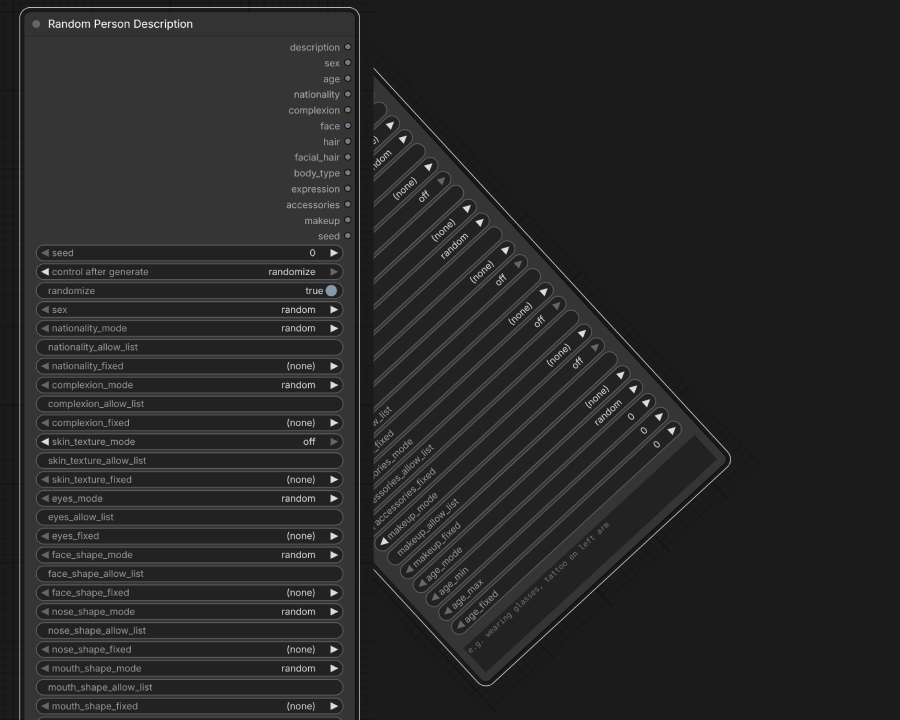
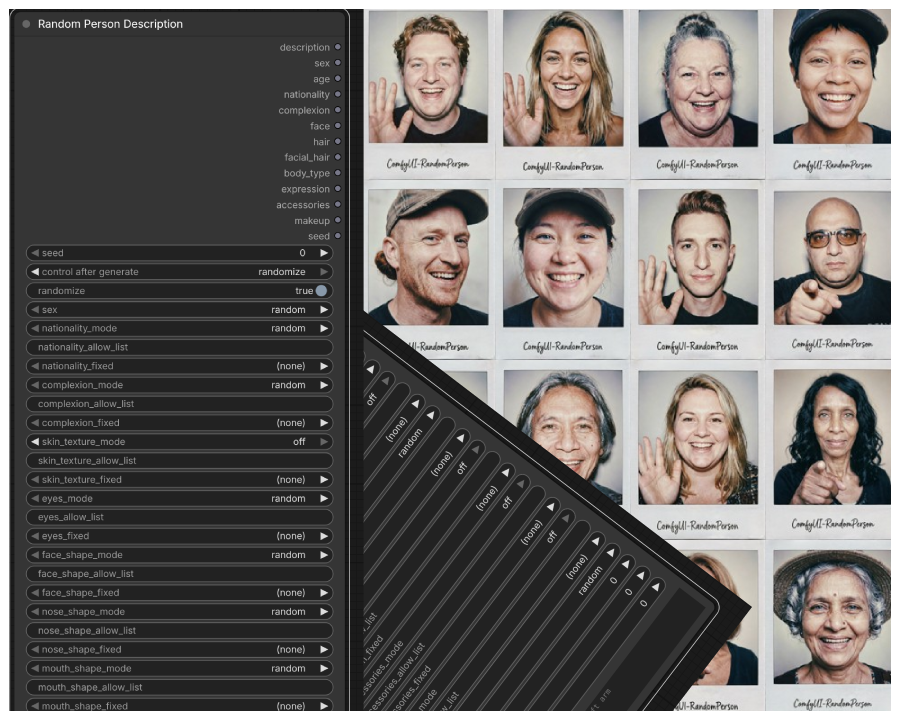
Update README

diff --git a/README.md b/README.md
@@ -21,19 +21,6 @@ aquiline nose, wide-set lips, a scar through one eyebrow, ash grey shaved hair w
 43 year old Russian female, angular face, light medium complexion, smooth skin, natural grey eyes, button nose, wide-set lips, a faint scar through one eyebrow, red very short hair worn twist out, muscular build, reading glasses, bold lipstick
 ```
 
----
-
-### Samples
-
-![grid_001](samples/grid_001.jpg)
-![grid_002](samples/grid_002.jpg)
-![grid_003](samples/grid_003.jpg)
-![grid_004](samples/grid_004.jpg)
-![grid_005](samples/grid_005.jpg)
-![grid_006](samples/grid_006.jpg)
-![grid_007](samples/grid_007.jpg)
-
-
 ## Installation
 
 ### ComfyUI Manager (recommended)